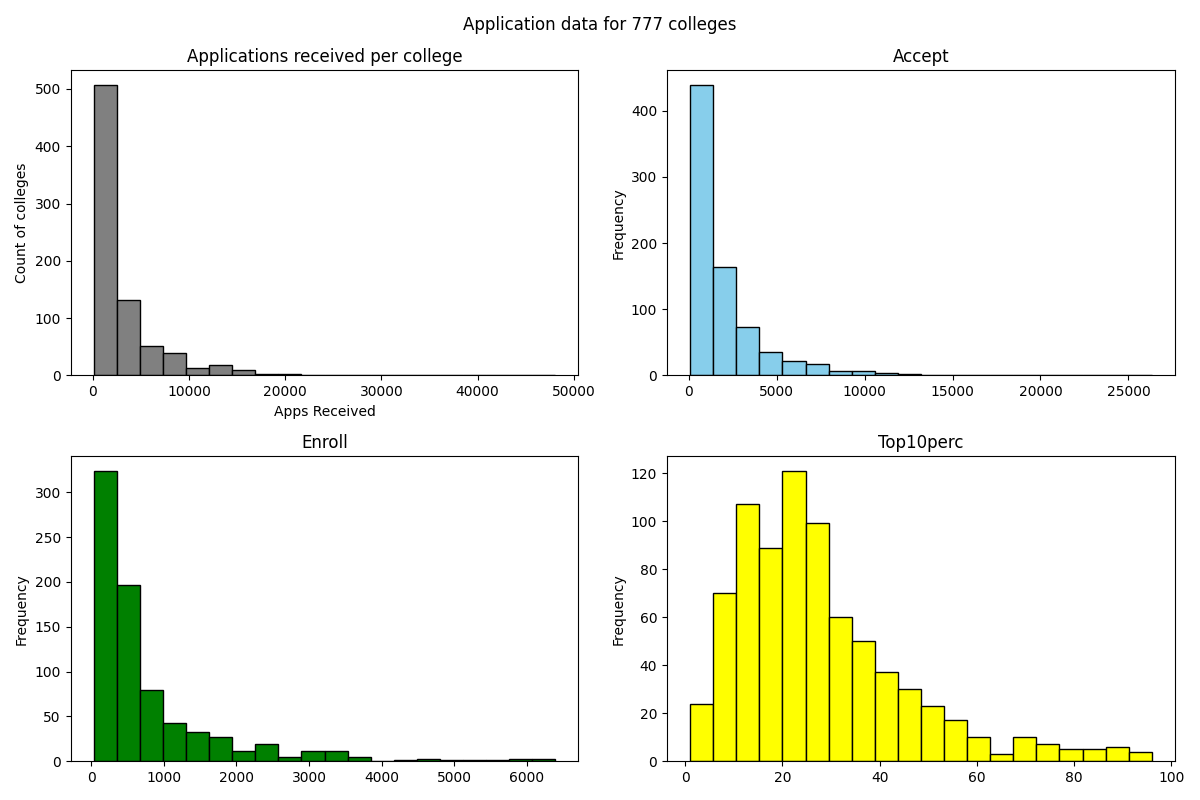
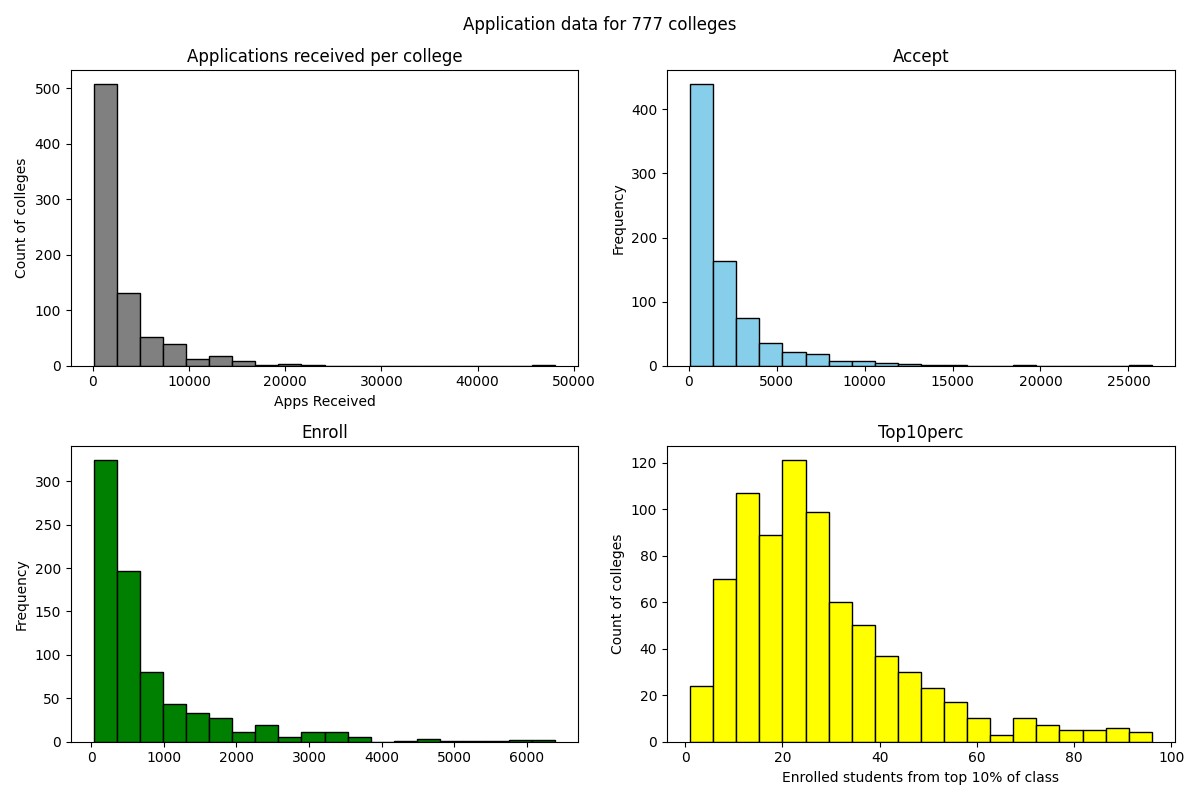
keep working applied

diff --git a/applied/ch2.py b/applied/ch2.py
@@ -61,6 +61,8 @@ axs[0, 0].set_ylabel("Count of colleges")
 college["Accept"].plot.hist(ax=axs[0, 1], bins=20, color="skyblue", edgecolor="black")
 college["Enroll"].plot.hist(ax=axs[1, 0], bins=20, color="green", edgecolor="black")
 college["Top10perc"].plot.hist(ax=axs[1, 1], bins=20, color="yellow", edgecolor="black")
+axs[1, 1].set_ylabel("Count of colleges")
+axs[1, 1].set_xlabel("Enrolled students from top 10% of class")
 plt.tight_layout()
 plt.savefig("../plots/CollegeHist.png")
 
@@ -70,6 +72,23 @@ plt.close()
 
 # ~500 colleges receive ~2500 apps
 # ~420 colleges accept ~1250 apps (50% acceptance rate)
-# ~310 colleges enroll ~333 students
+# ~310 colleges enroll ~333 apps
 
 # Summary of above:
+# The most frequent scenario is a college
+# receives about 2500 apps, they accept about half of them,
+# but only about a quarter of those accepted enroll.
+
+
+# What does the 'Top10perc' histogram suggest
+# about the academic profile of incoming students
+# for the majority of these colleges?
+
+# Answer:
+# Of those that enroll
+# The most frequent scenario is about 25 of those students
+# are from the top of their class
+# ~25 students enrolled are top 10% of their class
+
+# The most frequent scenario is a college enrolls
+# 25 students who were the top 10% of their class
